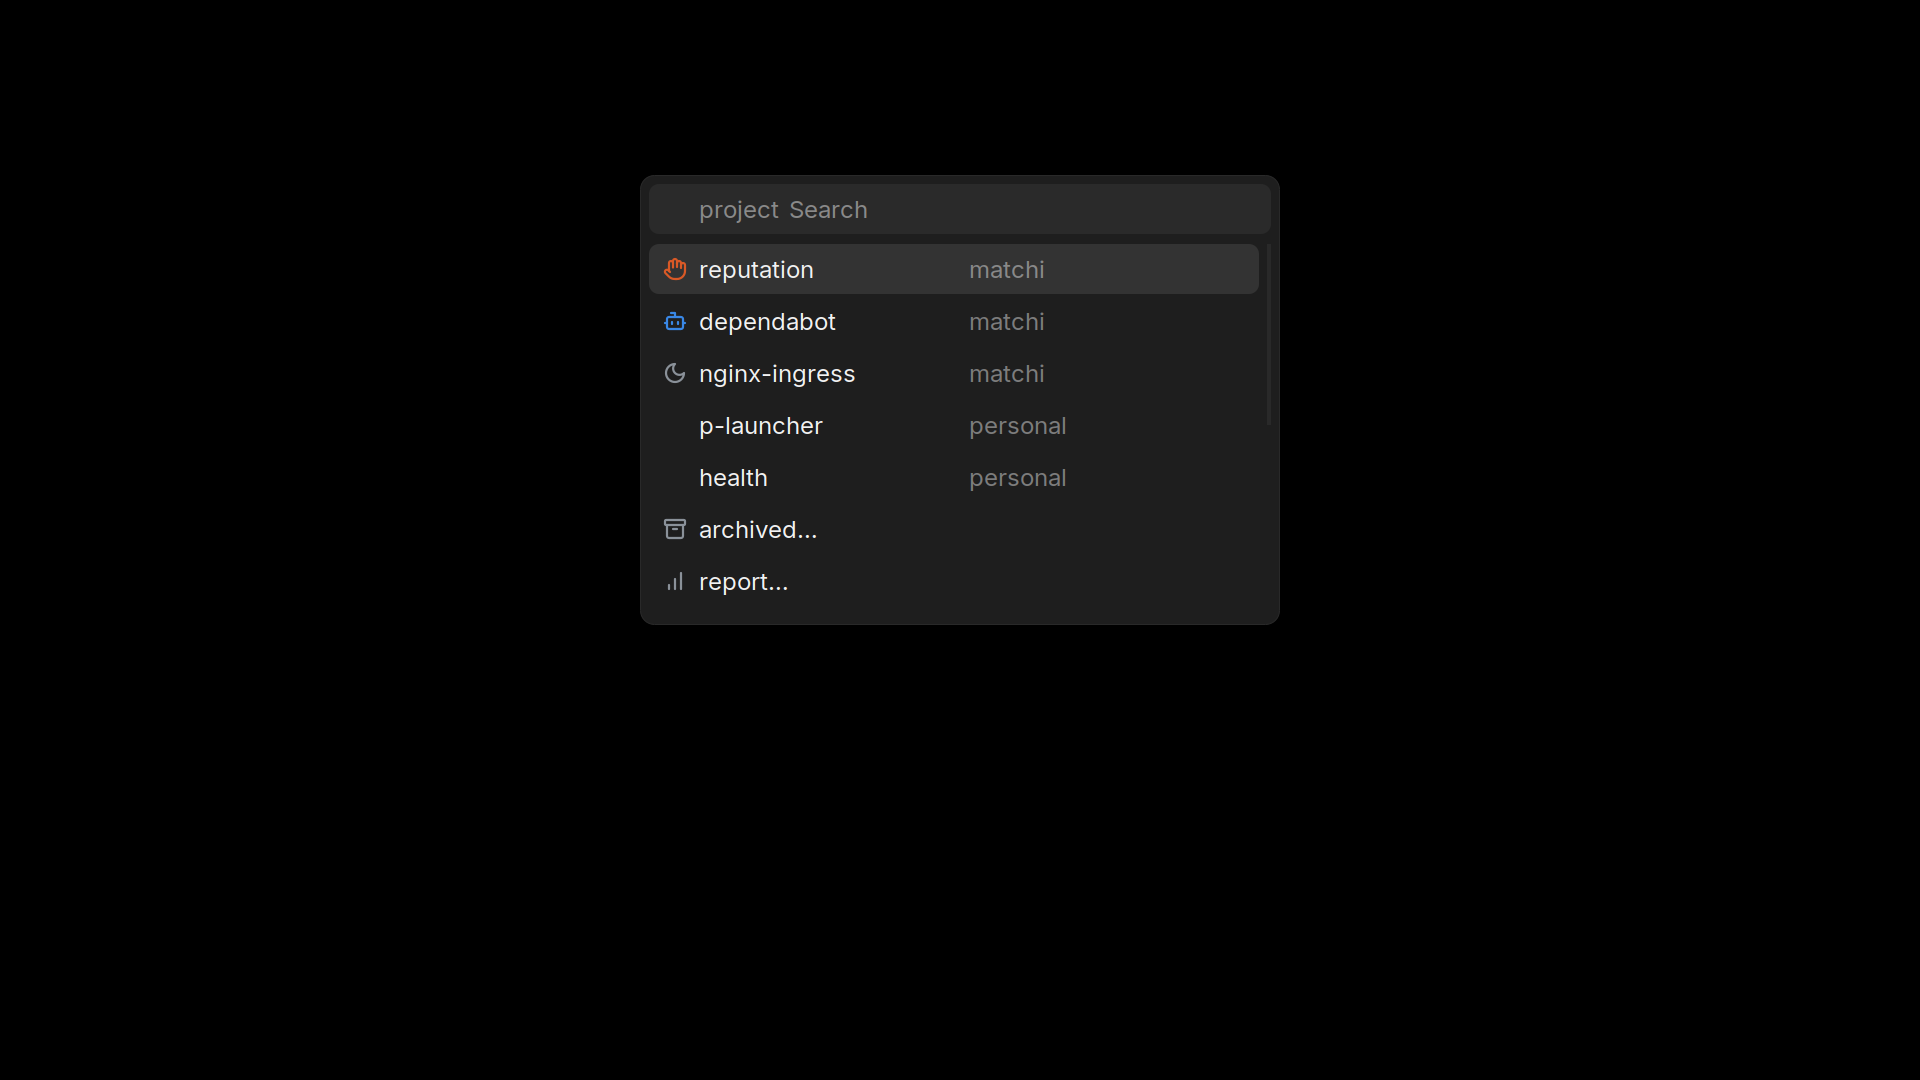
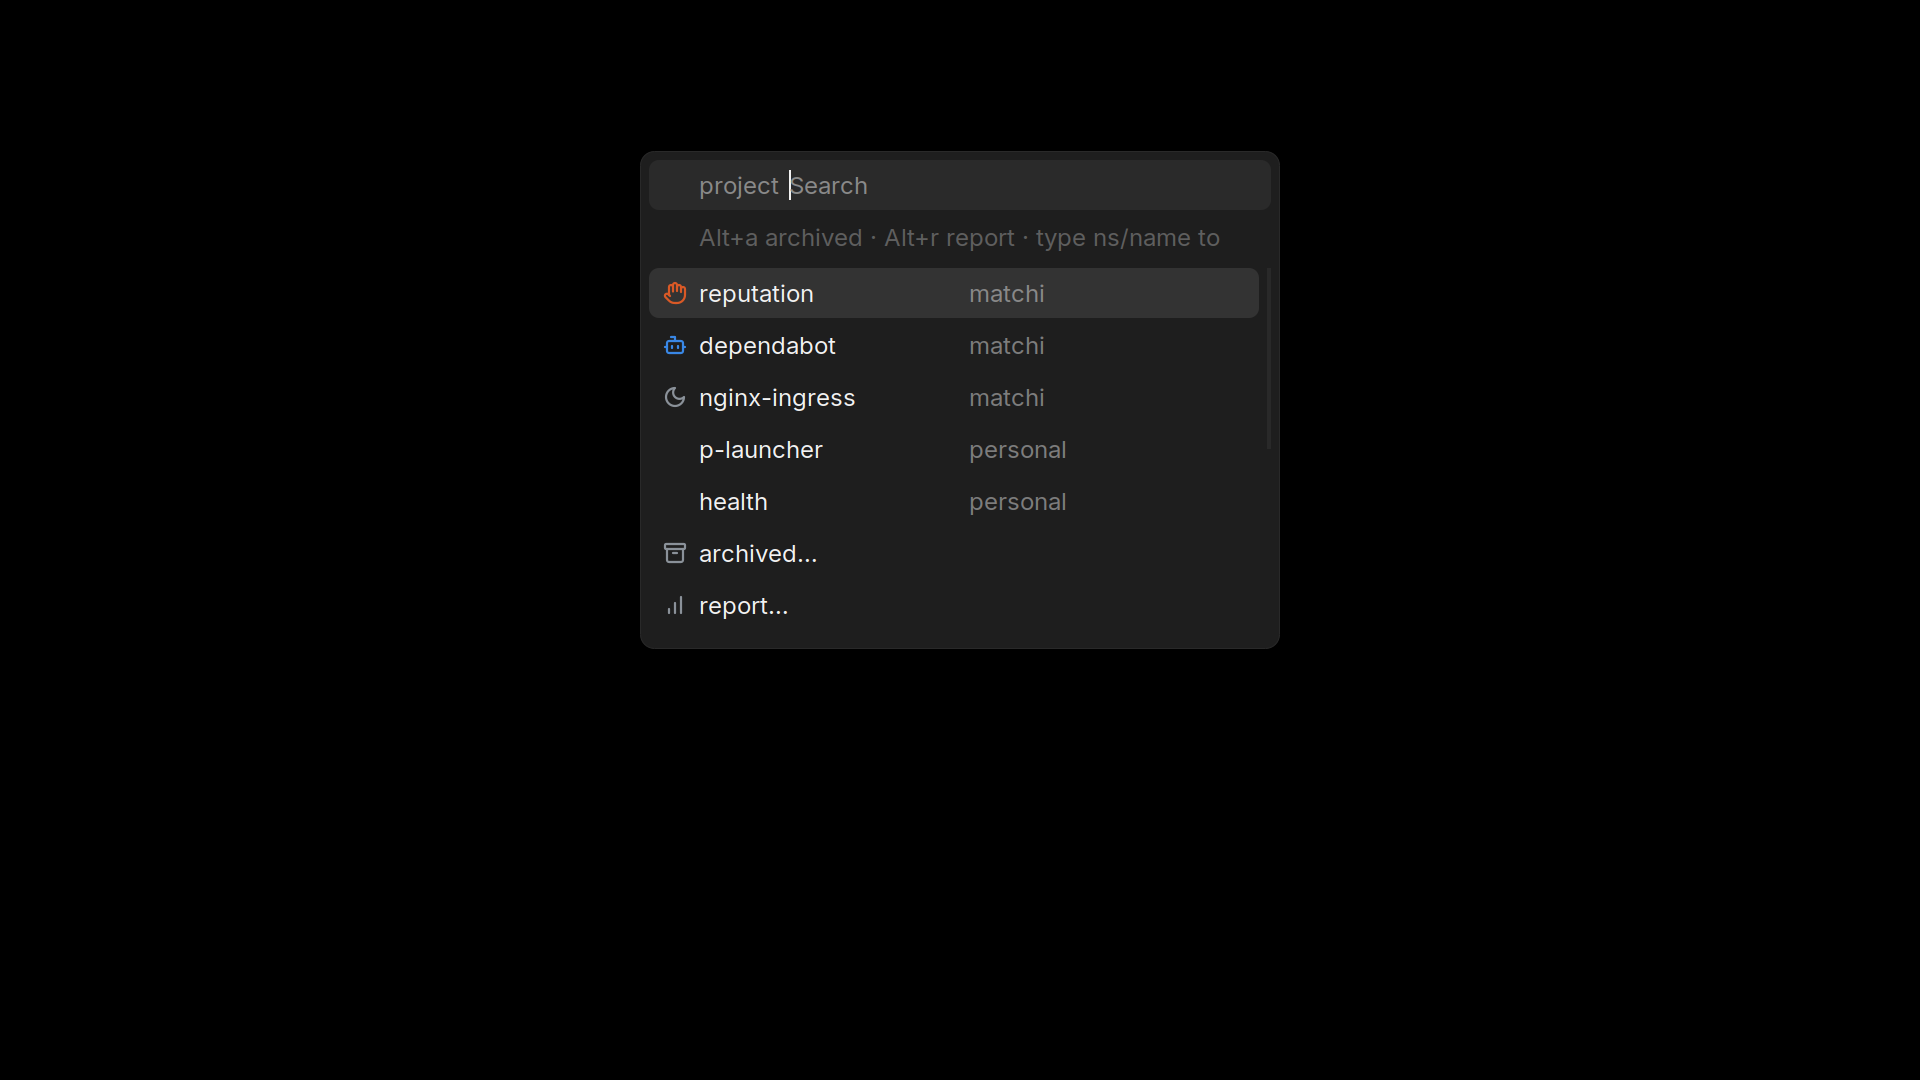
p-launcher: main-menu golden includes the chord hint line

Changed region(s): [[0.3125, 0.1222, 0.6875, 0.6111]]

diff --git a/p-launcher/golden_test.go b/p-launcher/golden_test.go
@@ -158,7 +158,8 @@ func TestGoldenRofiMenu(t *testing.T) {
 	}
 	open := map[string]bool{"p:m/reputation": true, "p:m/dependabot": true, "p:m/nginx-ingress": true}
 	rows := Rows(ps, open, true)
-	cmd := exec.Command("rofi", rofiArgs("project", "F5")...)
+	// the same arguments menuMode uses for the main list, hint line included
+	cmd := exec.Command("rofi", append(rofiArgs("project", "F5"), mainMenuExtra()...)...)
 	cmd.Env = append(os.Environ(), "DISPLAY="+display)
 	cmd.Stdin = bytes.NewReader(rofiInput(rows, icons))
 	if err := cmd.Start(); err != nil {
